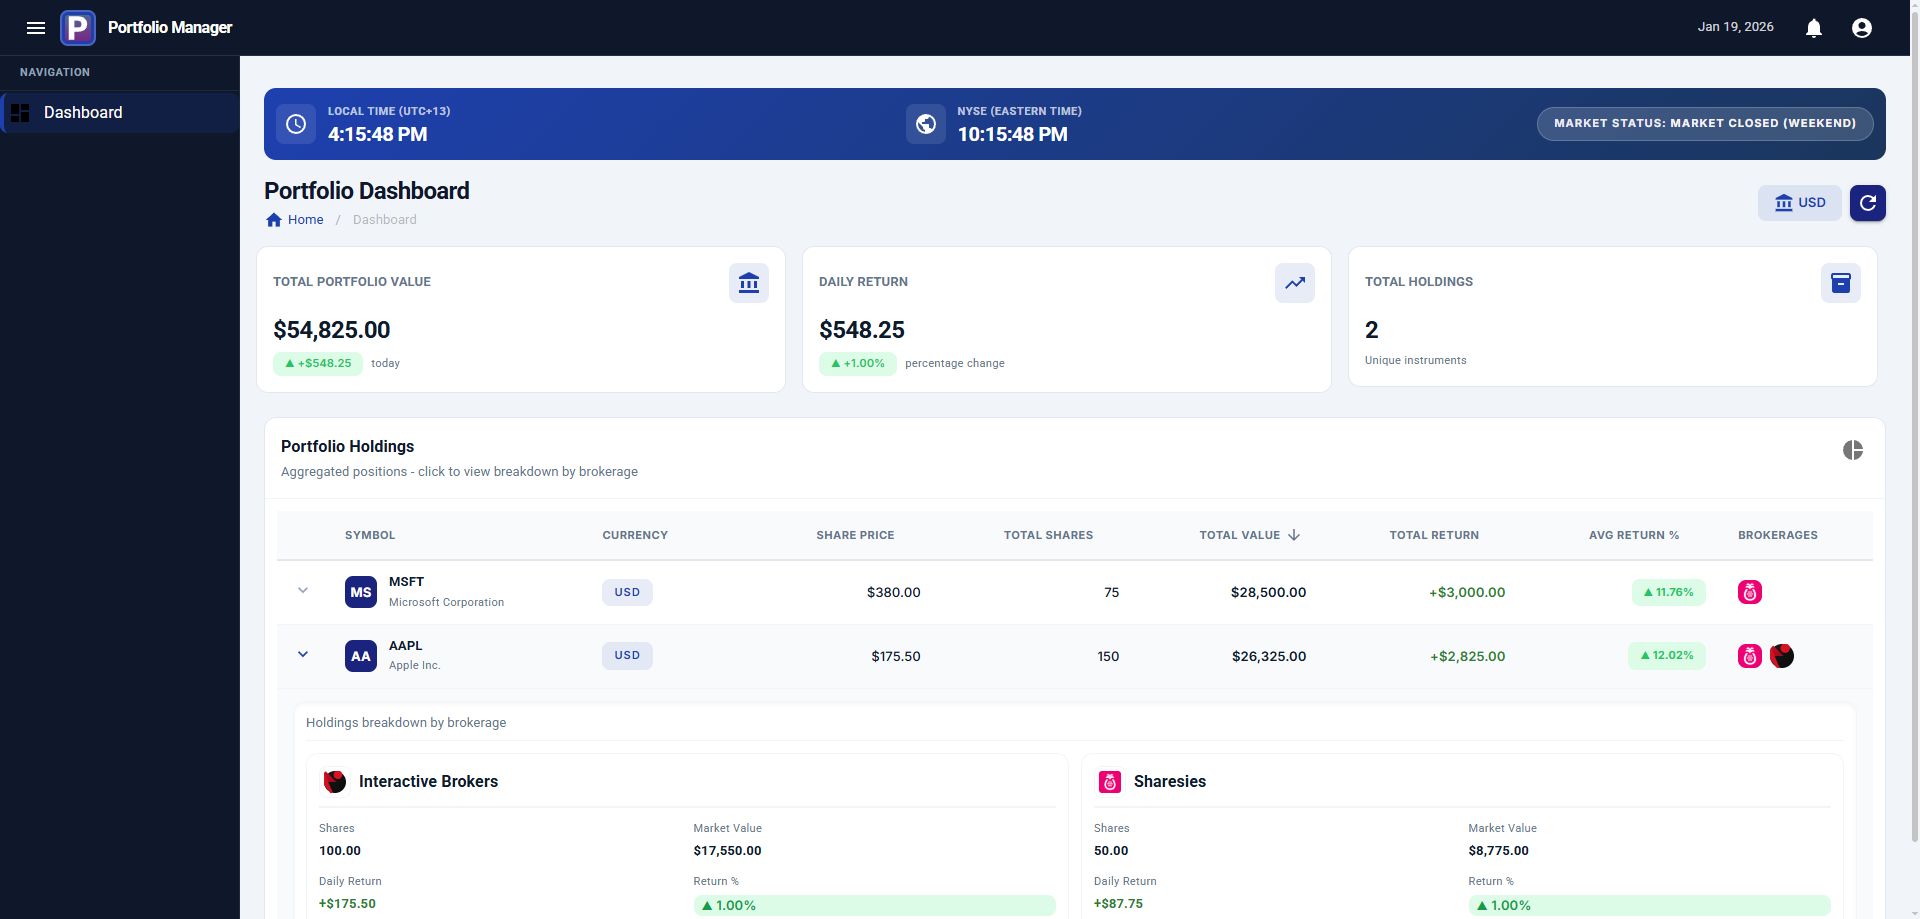
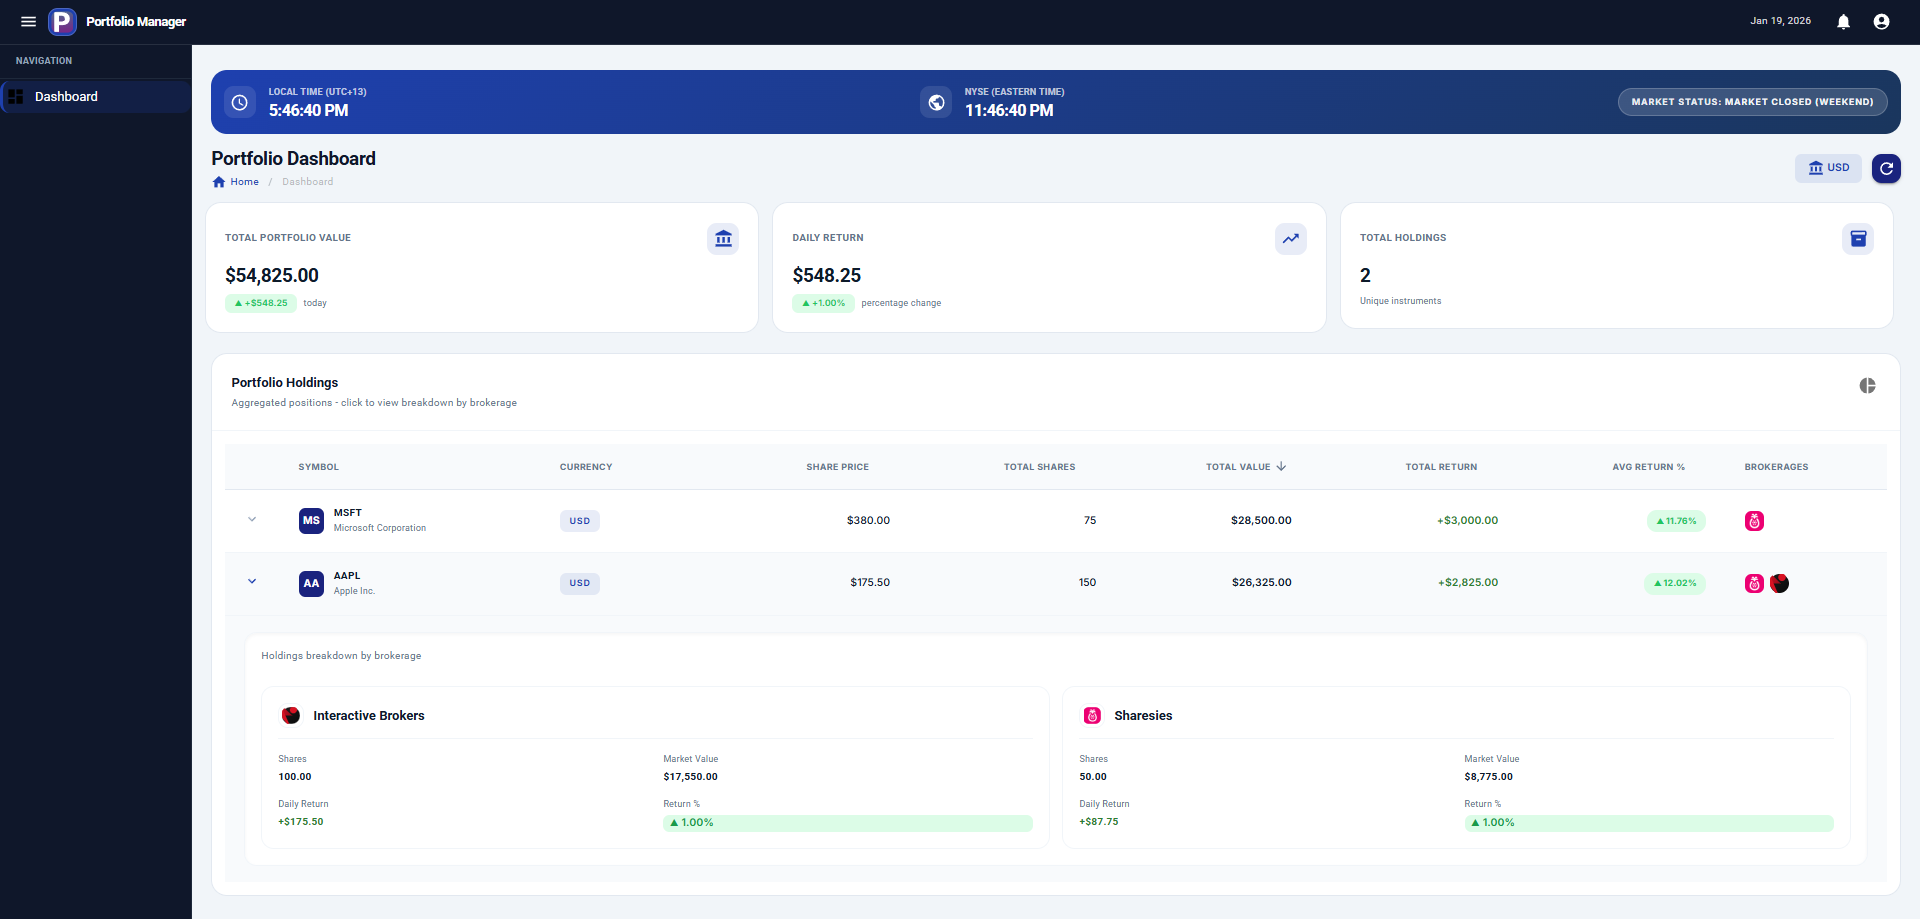
Removing border and updated screenshot.

diff --git a/PortfolioManager.Web/wwwroot/css/app.css b/PortfolioManager.Web/wwwroot/css/app.css
@@ -1,1 +1,1 @@
[2 lines of base64/hex data omitted]

diff --git a/PortfolioManager.Web/wwwroot/css/app.scss b/PortfolioManager.Web/wwwroot/css/app.scss
@@ -1668,7 +1668,6 @@ code {
 .desktop-details-header {
   margin-bottom: $spacing-4;
   padding-bottom: $spacing-3;
-  border-bottom: 1px solid $color-border-light;
 }
 
 .desktop-details-grid {
